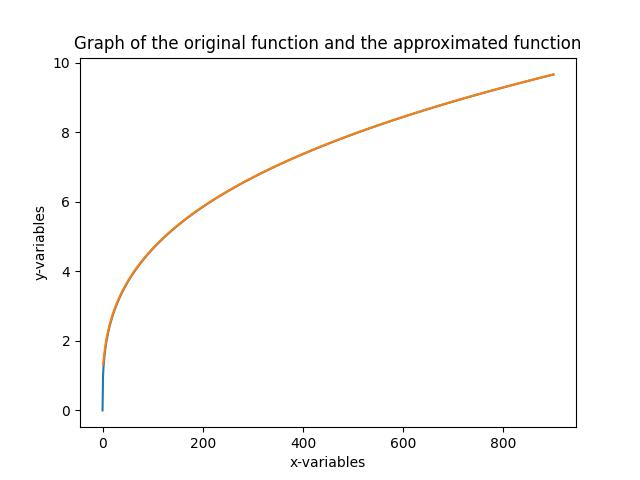
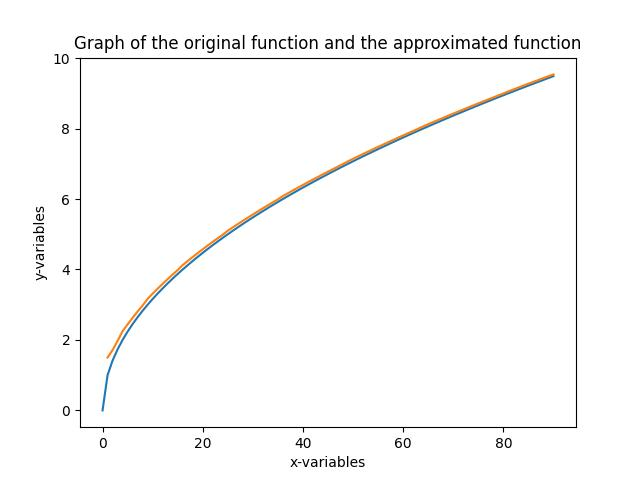
Update function equation in graph_executor.py to use square root instead of cube root

diff --git a/graph_executor.py b/graph_executor.py
@@ -2,7 +2,7 @@ import matplotlib.pyplot as plt
 import sympy as sp
 
 x = sp.symbols('x')
-f_eq = x**(1/3)
+f_eq = x**(1/2)
 deriv_f = sp.diff(f_eq)
 
 def tabular_point(function_equation, problem_point):